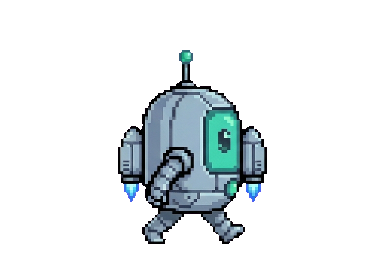
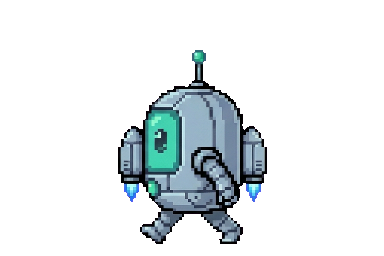
Pet gallery in the full view (all types in your color, swatches, growth stages with locked ones); overlay ✎ opens it; robot walks forwards; v0.3.1

Changed region(s): [[0.3125, 0.1875, 0.6875, 0.9688]]

diff --git a/src/main.ts b/src/main.ts
@@ -4,7 +4,7 @@ import type { PublicState } from '../server/state.js';
 import { COLORS, SPECIES, SPECIES_LABEL } from '../shared/types.js';
 import type { Appearance, Behavior, ColorName, MilestoneRecord, PetState, Species, Stage } from '../shared/types.js';
 import { startReplay } from './replay.js';
-import { PetAnimator } from './pet.js';
+import { frameUrl, PetAnimator } from './pet.js';
 
 const overlay = new URLSearchParams(location.search).has('overlay');
 if (overlay) {
@@ -32,7 +32,7 @@ const el = {
   milestones: $('milestones'), details: $('details-body'), hearts: $('hearts'), flash: $('flash'),
   replay: $<HTMLButtonElement>('replay'), disconnect: $<HTMLButtonElement>('disconnect'),
   demoBanner: $('demo-banner'), otherBanner: $('other-banner'), stageMini: $('stage-mini'), flip: $('flip'), connMini: $('conn-mini'),
-  species: $<HTMLSelectElement>('species'), color: $<HTMLSelectElement>('color'),
+  speciesGrid: $('species-grid'), swatches: $('swatches'), stages: $('stages'), customizeBtn: $<HTMLButtonElement>('customize-btn'),
 };
 
 const pageStart = Date.now();
@@ -138,8 +138,7 @@ function render() {
   // Appearance (the demo replay keeps whatever you picked)
   const look = s.appearance ?? { species: 'dragon', color: 'original' };
   animator.setAppearance(look.species, look.color);
-  if (document.activeElement !== el.species) el.species.value = look.species;
-  if (document.activeElement !== el.color) el.color.value = look.color;
+  renderGallery(look, s.stage);
 
   // Stage + growth flash
   if (shownStage !== s.stage) {
@@ -243,8 +242,72 @@ function toggleReplay() {
 }
 el.replay.addEventListener('click', toggleReplay);
 // Customize: type and color are saved with the pet on the server.
-for (const sp of SPECIES) el.species.add(new Option(SPECIES_LABEL[sp], sp));
-for (const c of Object.keys(COLORS)) el.color.add(new Option(c[0].toUpperCase() + c.slice(1), c));
+const STAGES: Stage[] = ['hatchling', 'sprout', 'companion'];
+const STAGE_XP: Record<Stage, number> = { hatchling: 0, sprout: 20, companion: 50 };
+const cap = (t: string) => t[0].toUpperCase() + t.slice(1);
+/** Swatch fill: the preset's hue, or the pet's own look for "original". */
+const SWATCH: Record<ColorName, string> = {
+  original: 'conic-gradient(#7fd6b0 0 25%, #e8643c 0 50%, #f0a24a 0 75%, #9fb3c8 0)',
+  mint: 'hsl(150 55% 55%)', sky: 'hsl(205 70% 60%)', lavender: 'hsl(270 55% 68%)',
+  rose: 'hsl(335 65% 68%)', ember: 'hsl(12 75% 55%)', gold: 'hsl(45 85% 55%)',
+};
+
+function thumb(species: Species, color: ColorName, stage: Stage, alt: string): HTMLImageElement {
+  const img = new Image(96, 64);
+  img.alt = alt;
+  img.decoding = 'async';
+  void frameUrl(species, color, stage).then((u) => { img.src = u; });
+  return img;
+}
+
+// Built once; renderGallery only updates what changed.
+let galleryKey = '';
+for (const sp of SPECIES) {
+  const b = document.createElement('button');
+  b.className = 'species-card';
+  b.dataset.species = sp;
+  b.setAttribute('role', 'radio');
+  b.append(document.createElement('span'));
+  const label = document.createElement('small');
+  label.textContent = SPECIES_LABEL[sp];
+  b.append(label);
+  b.addEventListener('click', () => void saveAppearance({ species: sp }));
+  el.speciesGrid.append(b);
+}
+for (const c of Object.keys(COLORS) as ColorName[]) {
+  const b = document.createElement('button');
+  b.className = 'swatch';
+  b.dataset.color = c;
+  b.title = cap(c);
+  b.setAttribute('role', 'radio');
+  b.setAttribute('aria-label', cap(c));
+  b.style.background = SWATCH[c];
+  b.addEventListener('click', () => void saveAppearance({ color: c }));
+  el.swatches.append(b);
+}
+
+/** The gallery: every pet in your color, the swatches, and your pet's three stages (locked ones dimmed). */
+function renderGallery(look: Appearance, stage: Stage) {
+  const key = `${look.species}|${look.color}|${stage}`;
+  if (key === galleryKey) return;
+  galleryKey = key;
+  for (const card of el.speciesGrid.querySelectorAll<HTMLButtonElement>('.species-card')) {
+    const sp = card.dataset.species as Species;
+    card.setAttribute('aria-checked', String(sp === look.species));
+    card.querySelector('span')!.replaceChildren(thumb(sp, look.color, stage, SPECIES_LABEL[sp]));
+  }
+  for (const sw of el.swatches.querySelectorAll<HTMLButtonElement>('.swatch')) sw.setAttribute('aria-checked', String(sw.dataset.color === look.color));
+  const reached = STAGES.indexOf(stage);
+  el.stages.replaceChildren(...STAGES.map((st, i) => {
+    const fig = document.createElement('figure');
+    fig.className = i <= reached ? 'stage-card' : 'stage-card locked';
+    fig.append(thumb(look.species, look.color, st, `${SPECIES_LABEL[look.species]}, ${st}`));
+    const cap2 = document.createElement('figcaption');
+    cap2.textContent = i <= reached ? cap(st) : `${cap(st)} · ${STAGE_XP[st]} XP`;
+    fig.append(cap2);
+    return fig;
+  }));
+}
 async function saveAppearance(next: Partial<Appearance>) {
   const cur = latest?.appearance ?? { species: 'dragon' as Species, color: 'original' as ColorName };
   const body = { ...cur, ...next };
@@ -252,8 +315,12 @@ async function saveAppearance(next: Partial<Appearance>) {
   render();
   try { await fetch('/api/appearance', { method: 'POST', body: JSON.stringify(body) }); } catch { /* offline: kept locally until the next poll */ }
 }
-el.species.addEventListener('change', () => void saveAppearance({ species: el.species.value as Species }));
-el.color.addEventListener('change', () => void saveAppearance({ color: el.color.value as ColorName }));
+// Overlay: the ✎ button in the XP pill opens the full view's gallery (no right-click needed).
+el.customizeBtn.addEventListener('click', (e) => {
+  e.stopPropagation();
+  if (window.byteHost?.openFullView) window.byteHost.openFullView();
+  else document.getElementById('gallery')?.scrollIntoView({ behavior: 'smooth' });
+});
 
 window.byteHost?.onCommand?.((cmd) => {
   if (cmd.startsWith('species:')) void saveAppearance({ species: cmd.slice(8) as Species });

diff --git a/src/style.css b/src/style.css
@@ -150,11 +150,37 @@ h1 { margin: 0; font-size: 22px; letter-spacing: -.01em; }
   .pet[data-behavior='sleeping'] .zzz i { opacity: .8; }
 }
 
-/* Customize row (full view only) */
-.customize { display: flex; gap: 10px; font-size: 12.5px; color: var(--ink-2); }
-.customize label { display: flex; align-items: center; gap: 6px; flex: 1; }
-.customize select { flex: 1; font: inherit; color: var(--ink); background: var(--paper); border: 1px solid var(--line); border-radius: 8px; padding: 4px 6px; }
-html.overlay .customize { display: none; }
+/* Pet gallery (full view): every pet type in your color, color swatches, and your pet's stages. */
+.gallery h2 { margin: 0 0 6px; font-size: 12px; text-transform: uppercase; letter-spacing: .08em; color: var(--ink-2); }
+.species-grid { display: grid; grid-template-columns: repeat(4, 1fr); gap: 6px; }
+.species-card {
+  display: flex; flex-direction: column; align-items: center; gap: 2px; padding: 4px 2px 5px;
+  background: var(--paper); border: 1.5px solid var(--line); border-radius: 12px; cursor: pointer;
+}
+.species-card span { display: block; width: 72px; height: 48px; }
+.species-card img { width: 72px; height: 48px; image-rendering: pixelated; }
+.species-card small { font-size: 10.5px; font-weight: 700; color: var(--ink-2); white-space: nowrap; }
+.species-card[aria-checked='true'] { border-color: var(--mint-deep); box-shadow: 0 0 0 2px #3e9d7833; }
+.species-card[aria-checked='true'] small { color: var(--ink); }
+.species-card:focus-visible, .swatch:focus-visible { outline: 3px solid var(--gold); outline-offset: 2px; }
+.swatches { display: flex; gap: 8px; justify-content: center; margin: 8px 0 6px; }
+.swatch { width: 22px; height: 22px; border-radius: 50%; border: 2px solid var(--paper); box-shadow: 0 0 0 1px var(--line); cursor: pointer; padding: 0; }
+.swatch[aria-checked='true'] { box-shadow: 0 0 0 2px var(--ink); }
+.stages { display: grid; grid-template-columns: repeat(3, 1fr); gap: 6px; }
+.stage-card { margin: 0; display: flex; flex-direction: column; align-items: center; background: var(--sky); border-radius: 10px; padding: 3px 0 4px; }
+.stage-card img { width: 84px; height: 56px; image-rendering: pixelated; }
+.stage-card figcaption { font-size: 10.5px; font-weight: 700; color: var(--ink-2); }
+.stage-card.locked img { filter: grayscale(1) brightness(.35) opacity(.55); }
+.stage-card.locked figcaption { color: #9a9486; }
+html.overlay .gallery { display: none; }
+
+/* Overlay ✎ button: shown in the XP pill while hovering Byte. */
+.customize-btn { display: none; }
+html.overlay .customize-btn {
+  order: 3; width: 18px; height: 18px; border-radius: 50%; border: 0; padding: 0; cursor: pointer;
+  background: var(--mint-deep); color: #fff; font-size: 11px; line-height: 18px;
+}
+html.overlay .app:hover .customize-btn { display: inline-block; }
 
 /* Overlay mode (?overlay): a small Byte, a thin XP bar, and a speech bubble that only shows when
    something changes, when Claude needs you or looks stuck, or on hover. Keep the footprint small. */

diff --git a/src/pet.ts b/src/pet.ts
@@ -20,6 +20,7 @@ declare global {
       dragStart?(): void;
       dragMove?(dx: number, dy: number): void;
       dragEnd?(): void;
+      openFullView?(): void;
     };
   }
 }
@@ -38,6 +39,24 @@ const rand = (a: number, b: number) => a + Math.random() * (b - a);
 const BODY_HUE: Record<Species, number> = { dragon: 150, fire: 10, cat: 28, robot: 168 };
 /** How far from the body hue still counts as body. The robot's recolor is only its teal glow, not its grey-blue metal. */
 const HUE_TOLERANCE: Record<Species, number> = { dragon: 32, fire: 32, cat: 32, robot: 18 };
+
+const shared = new Map<string, Promise<string>>();
+/**
+ * A frame of any pet type at any stage in any color preset, recolored the same way the
+ * animator does it (cached). Used by the full view's gallery.
+ */
+export function frameUrl(species: Species, color: ColorName, stage: Stage, pose = 'idle'): Promise<string> {
+  const url = `/pet/${species}/${stage}-${pose}.png`;
+  const target = COLORS[color];
+  if (target === null) return Promise.resolve(url);
+  const key = `${url}#${target}`;
+  let p = shared.get(key);
+  if (!p) {
+    p = recolor(url, BODY_HUE[species], target, HUE_TOLERANCE[species]).catch(() => url);
+    shared.set(key, p);
+  }
+  return p;
+}
 
 /**
  * Recolors one frame: pixels that are saturated and near the body hue move to the target

diff --git a/index.html b/index.html
@@ -39,6 +39,7 @@
 
       <section class="xp">
         <span class="conn-mini" id="conn-mini" data-conn="waiting" title="Waiting"></span>
+        <button class="customize-btn" id="customize-btn" title="Change your pet" aria-label="Change your pet">✎</button>
         <span class="stage mini" id="stage-mini">Hatchling</span>
         <div class="xp-row"><strong id="xp">0 XP</strong><span id="xp-next">20 to sprout</span></div>
         <div class="bar" role="progressbar" aria-valuemin="0" aria-valuemax="100" id="bar"><span id="bar-fill"></span></div>
@@ -49,9 +50,11 @@
         <ol id="milestones"><li class="empty">None yet. Fix a failing test to feed Byte.</li></ol>
       </section>
 
-      <section class="customize" aria-label="Customize Byte">
-        <label>Pet <select id="species"></select></label>
-        <label>Color <select id="color"></select></label>
+      <section class="gallery" id="gallery" aria-label="Your pet">
+        <h2>Your pet</h2>
+        <div class="species-grid" id="species-grid" role="radiogroup" aria-label="Pet type"></div>
+        <div class="swatches" id="swatches" role="radiogroup" aria-label="Color"></div>
+        <div class="stages" id="stages" aria-label="Growth stages"></div>
       </section>
 
       <details class="details" id="details">

diff --git a/README.md b/README.md
@@ -23,7 +23,7 @@ Stages: hatchling (0–19 XP) → sprout (20–49) → companion (50+). A turn e
 
 ## Make it yours
 
-Pick a **pet type** (mint dragon, fire dragon, wizard cat, robot) and a **color** (original, mint, sky, lavender, rose, ember, gold). In the overlay, right-click Byte → **Pet** / **Color**; in the full view, use the selectors. Your choice is saved with your pet. Every type has the same three growth stages and the same animations. Colors recolor only the main body hue, so eyes, bellies and accents stay as drawn (for the robot, the color changes its glow).
+Pick a **pet type** (mint dragon, fire dragon, wizard cat, robot) and a **color** (original, mint, sky, lavender, rose, ember, gold) in the full view's **Your pet** gallery. It shows every pet in your color and your pet's three growth stages, with the ones you haven't reached yet locked. From the overlay, hover over Byte and click **✎**, or right-click → **Pet** / **Color**. Your choice is saved with your pet. Every type has the same three growth stages and the same animations. Colors recolor only the main body hue, so eyes, bellies and accents stay as drawn (for the robot, the color changes its glow).
 
 The art for each type was generated in Byte's pixel style by `scripts/gen-species.mjs`.
 
@@ -62,7 +62,7 @@ browser (Vite, polls /api/state every second) ◀── .byte/pet.json (atomic w
 
 ## Install (macOS, Apple Silicon)
 
-1. Download **Byte-0.3.0-arm64.dmg** from the [latest release](https://github.com/acharyaanusha/byte/releases/latest) and drag Byte to Applications.
+1. Download **Byte-0.3.1-arm64.dmg** from the [latest release](https://github.com/acharyaanusha/byte/releases/latest) and drag Byte to Applications.
 2. The app isn't notarized yet. On first launch, right-click Byte → **Open** → **Open**. Or run `xattr -dr com.apple.quarantine /Applications/Byte.app`.
 3. Byte finds the coding agents on your Mac (Claude Code, Codex, Gemini CLI) and asks to **connect** to them. It adds small hooks to each agent's settings and keeps a backup. Start a new session and Byte follows it. Codex asks you to trust new hooks the first time; approve Byte's.
 That's it: **no API key needed.** Byte asks Jev through a shared service. If you have your own [TypeSafe](https://docs.typesafe.ai) key, right-click Byte → **Use my own Jev API key…** to call Jev directly instead.
